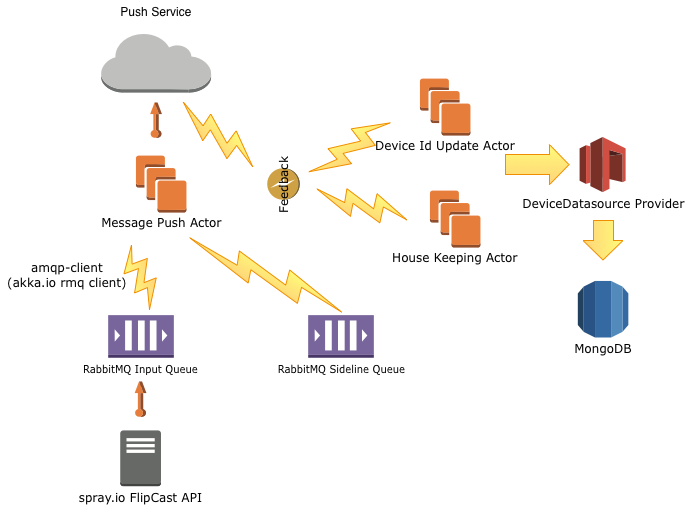
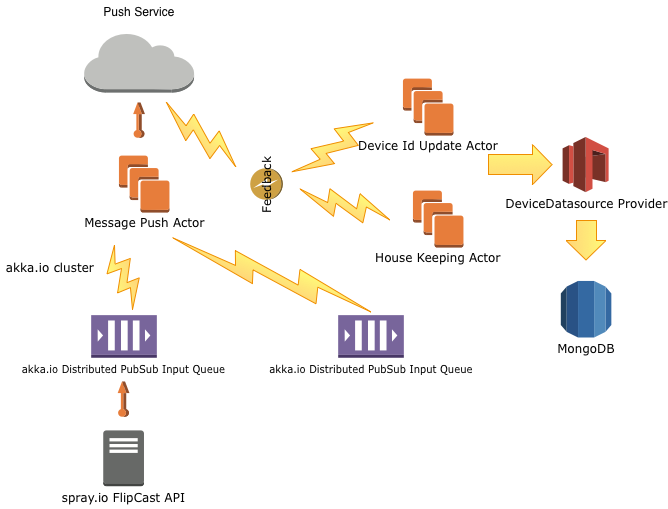
1) Config updates 2) Updates to library dependeincies 3) Update tech stack image 4) Reduce actor overload 5) Remove Hazelcast & RMQ config 6) Update README & CHANGELOG

diff --git a/README.md b/README.md
@@ -14,8 +14,9 @@ Support for MongoDB datasource is provided out-of-the-box.
 ## Releases
 | Release | Date | Description |
 |:------------|:----------------|:------------|
-| Version 1.0    | April 2014      |   Initial OSS release |
-| Version 1.0.1    | May 2014      |   Upgrade to Spray 1.3 & Scala 2.11.0 |
+| Version 1.0    | April 2014    |   Initial OSS release |
+| Version 1.0.1  | May 2014      |   Upgrade to Spray 1.3 & Scala 2.11.0 |
+| Version 2.0    | December 2014 |   Move to akka.io cluster & distributed pubsub |
 
 ## Changelog
 Changelog can be viewed in [CHANGELOG.md](https://github.com/Flipkart/flipcast/blob/master/CHANGELOG.md) file
@@ -38,16 +39,13 @@ Changelog can be viewed in [CHANGELOG.md](https://github.com/Flipkart/flipcast/b
 
 ## Library Dependencies
 --------------------
-* [spray](http://spray.io) 1.3.1-20140423
+* [spray](http://spray.io) 1.3.2
 * [Scala](http://www.scala-lang.org) 2.11.0
-* [akka.io](http://akka.io) 2.3.2
-* [amqp-client](https://github.com/sstone/amqp-client) - 1.4
+* [akka.io](http://akka.io) 2.3.6
 * [java-apns](https://github.com/notnoop/java-apns) - 0.2.3
-* [casbah](http://mongodb.github.io/casbah) - 2.7.1
-* [hazelcast](http://hazelcast.org) - 3.1.2
+* [casbah](http://mongodb.github.io/casbah) - 2.8.0-RC0
 
 ## Infrastructure Dependencies
-* [RabbitMQ](https://www.rabbitmq.com)
 * [MongoDB] (https://www.mongodb.org)
 
 ## Documentation

diff --git a/CHANGELOG.md b/CHANGELOG.md
@@ -7,3 +7,9 @@
 * Scala 2.11 upgrade
 * Amqp Client 1.4 upgrade
 * Casbah 2.7.1 upgrade
+
+## 2.0 (December 26, 2014)
+* Deprecate hazelcast and move to auto-updating distributed cache using akka pubsub (http://letitcrash.com/post/30509298968/case-study-an-auto-updating-cache-using-actors)
+* Deprecate RabbitMQ from infrastructure dependencies and move to akka.io distributed pubsub (http://letitcrash.com/post/55877737496/2-2-spotlight-publish-subscribe-in-cluster)
+* Akka 2.3.6 upgrade
+* Casbah 2.8.0-RC0 upgrade
